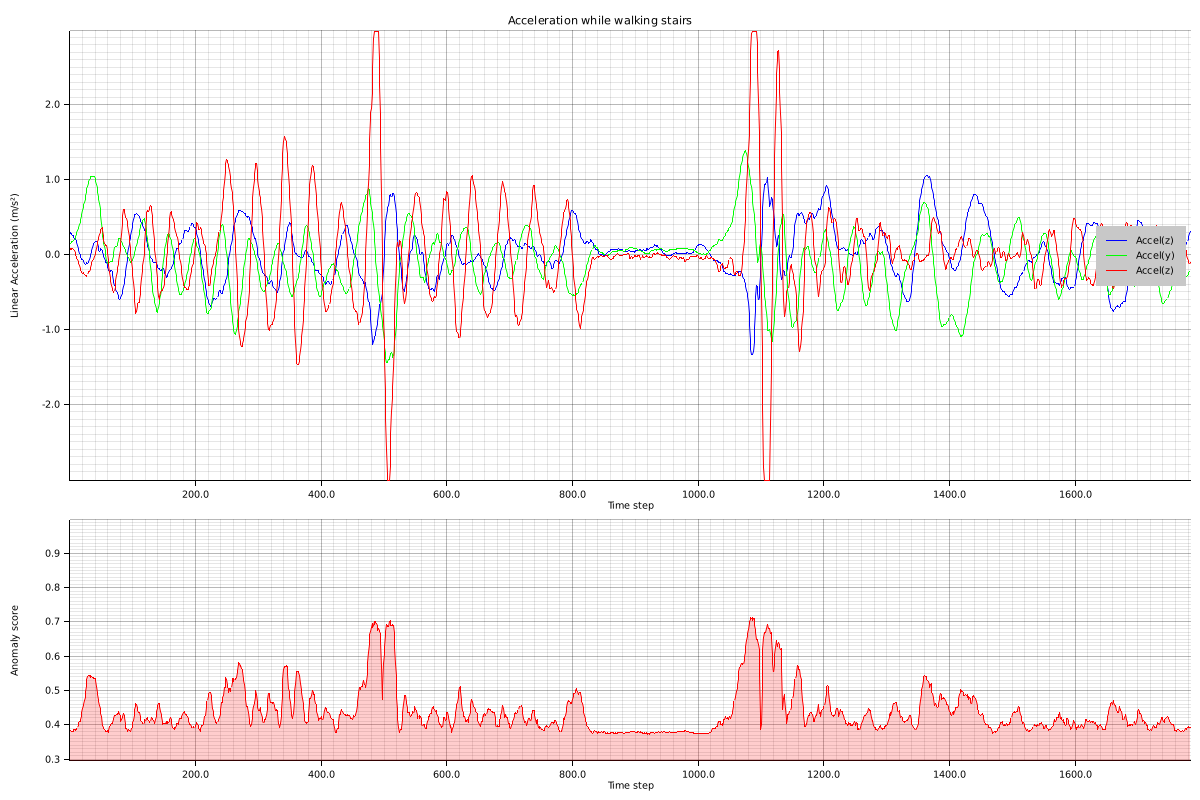
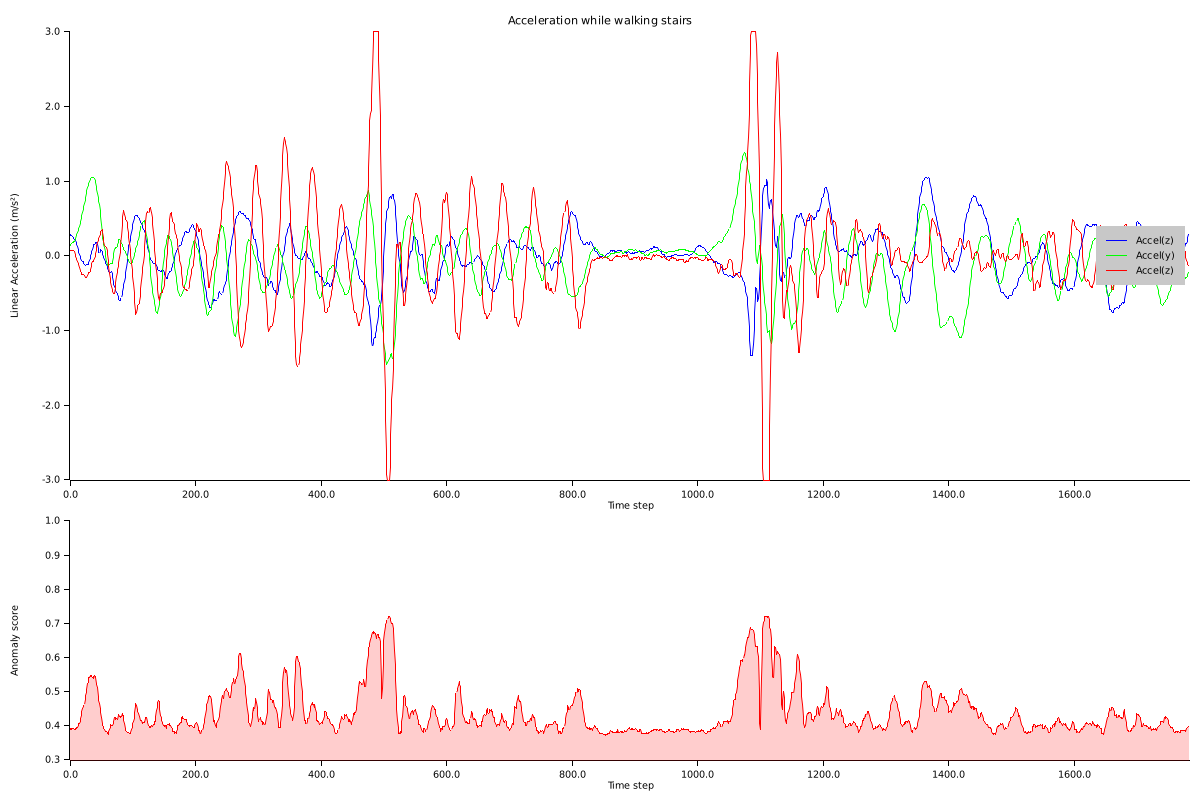
disable mesh in plot for a smaller image size

diff --git a/examples/walking_stairs.rs b/examples/walking_stairs.rs
@@ -78,8 +78,7 @@ fn main() -> Result<()> {
 
     upper_chart
         .configure_mesh()
-        //.disable_x_mesh()
-        //.disable_y_mesh()
+        .disable_mesh()
         .y_desc("Linear Acceleration (m/s²)")
         .x_desc("Time step")
         .draw()?;
@@ -116,8 +115,7 @@ fn main() -> Result<()> {
 
     lower_chart
         .configure_mesh()
-        //.disable_x_mesh()
-        //.disable_y_mesh()
+        .disable_mesh()
         .y_desc("Anomaly score")
         .x_desc("Time step")
         .draw()?;
